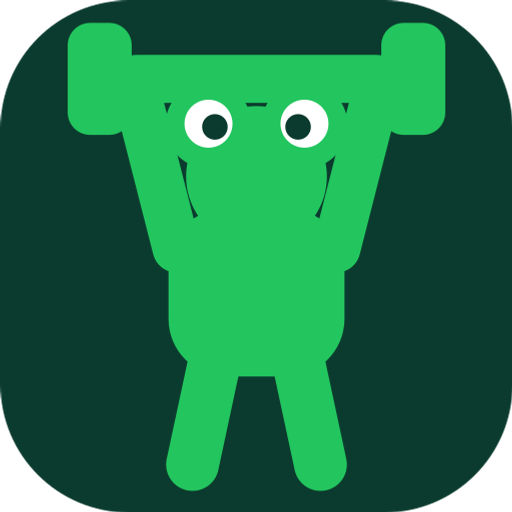
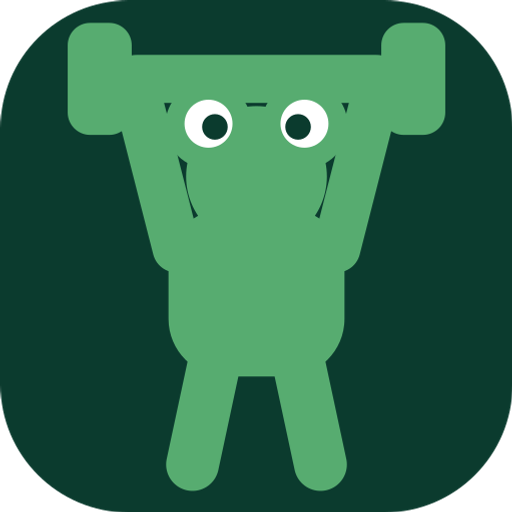
Repalette to "golden hour" — warm amber, green kept for the frog
The old spring-green + neutral-gray dark theme reads as a generic
Spotify-stats template. New palette:

- primary is a warm amber (deeper honey in light mode for text contrast,
  bright gold in dark)
- neutrals carry a faint warm tint instead of pure achromatic gray
- --brand stays a natural frog green, now used only by the logo / wordmark
- charts lead with the gold, green as the cool anchor, plus terracotta /
  slate / plum
- icon.svg, the maskable icon, apple-icon and the iOS splash regenerated;
  PWA theme/background and the email template follow the new colours

diff --git a/src/app/globals.css b/src/app/globals.css
@@ -50,77 +50,80 @@
   --radius-4xl: calc(var(--radius) * 2.6);
 }
 
+/* "Golden hour" — warm amber primary, a natural frog green reserved for the
+ * logo, and neutrals with a faint warm tint so the app doesn't read like a
+ * dark-mode analytics template. */
 :root {
-  --background: oklch(1 0 0);
-  --foreground: oklch(0.145 0 0);
-  --card: oklch(1 0 0);
-  --card-foreground: oklch(0.145 0 0);
-  --popover: oklch(1 0 0);
-  --popover-foreground: oklch(0.145 0 0);
-  --primary: oklch(0.59 0.146 156);
-  --primary-foreground: oklch(0.985 0.01 156);
-  --secondary: oklch(0.97 0 0);
-  --secondary-foreground: oklch(0.205 0 0);
-  --muted: oklch(0.97 0 0);
-  --muted-foreground: oklch(0.556 0 0);
-  --accent: oklch(0.95 0.03 156);
-  --accent-foreground: oklch(0.35 0.09 156);
+  --background: oklch(0.994 0.004 84);
+  --foreground: oklch(0.19 0.012 62);
+  --card: oklch(1 0.002 84);
+  --card-foreground: oklch(0.19 0.012 62);
+  --popover: oklch(1 0.002 84);
+  --popover-foreground: oklch(0.19 0.012 62);
+  --primary: oklch(0.6 0.135 68);
+  --primary-foreground: oklch(0.99 0.008 84);
+  --secondary: oklch(0.965 0.008 80);
+  --secondary-foreground: oklch(0.25 0.012 62);
+  --muted: oklch(0.965 0.008 80);
+  --muted-foreground: oklch(0.53 0.018 66);
+  --accent: oklch(0.95 0.035 80);
+  --accent-foreground: oklch(0.42 0.09 66);
   --destructive: oklch(0.577 0.245 27.325);
-  --border: oklch(0.922 0 0);
-  --input: oklch(0.922 0 0);
-  --ring: oklch(0.59 0.146 156);
-  --brand: oklch(0.64 0.15 156);
-  --brand-ink: oklch(0.28 0.06 160);
-  --chart-1: oklch(0.64 0.15 156);
-  --chart-2: oklch(0.68 0.12 212);
-  --chart-3: oklch(0.76 0.14 75);
-  --chart-4: oklch(0.6 0.17 300);
-  --chart-5: oklch(0.64 0.19 15);
+  --border: oklch(0.9 0.01 80);
+  --input: oklch(0.9 0.01 80);
+  --ring: oklch(0.6 0.135 68);
+  --brand: oklch(0.585 0.125 150);
+  --brand-ink: oklch(0.31 0.055 162);
+  --chart-1: oklch(0.68 0.15 74);
+  --chart-2: oklch(0.58 0.115 150);
+  --chart-3: oklch(0.6 0.15 40);
+  --chart-4: oklch(0.6 0.1 225);
+  --chart-5: oklch(0.52 0.13 350);
   --radius: 0.7rem;
-  --sidebar: oklch(0.985 0 0);
-  --sidebar-foreground: oklch(0.145 0 0);
-  --sidebar-primary: oklch(0.205 0 0);
-  --sidebar-primary-foreground: oklch(0.985 0 0);
-  --sidebar-accent: oklch(0.97 0 0);
-  --sidebar-accent-foreground: oklch(0.205 0 0);
-  --sidebar-border: oklch(0.922 0 0);
-  --sidebar-ring: oklch(0.708 0 0);
+  --sidebar: oklch(0.985 0.004 84);
+  --sidebar-foreground: oklch(0.19 0.012 62);
+  --sidebar-primary: oklch(0.6 0.135 68);
+  --sidebar-primary-foreground: oklch(0.99 0.008 84);
+  --sidebar-accent: oklch(0.965 0.008 80);
+  --sidebar-accent-foreground: oklch(0.25 0.012 62);
+  --sidebar-border: oklch(0.9 0.01 80);
+  --sidebar-ring: oklch(0.6 0.135 68);
 }
 
 .dark {
-  --background: oklch(0.145 0 0);
-  --foreground: oklch(0.985 0 0);
-  --card: oklch(0.205 0 0);
-  --card-foreground: oklch(0.985 0 0);
-  --popover: oklch(0.205 0 0);
-  --popover-foreground: oklch(0.985 0 0);
-  --primary: oklch(0.7 0.15 156);
-  --primary-foreground: oklch(0.18 0.03 160);
-  --secondary: oklch(0.269 0 0);
-  --secondary-foreground: oklch(0.985 0 0);
-  --muted: oklch(0.269 0 0);
-  --muted-foreground: oklch(0.708 0 0);
-  --accent: oklch(0.32 0.05 160);
-  --accent-foreground: oklch(0.92 0.03 156);
+  --background: oklch(0.17 0.012 70);
+  --foreground: oklch(0.955 0.008 84);
+  --card: oklch(0.222 0.015 68);
+  --card-foreground: oklch(0.955 0.008 84);
+  --popover: oklch(0.222 0.015 68);
+  --popover-foreground: oklch(0.955 0.008 84);
+  --primary: oklch(0.81 0.155 80);
+  --primary-foreground: oklch(0.25 0.05 66);
+  --secondary: oklch(0.285 0.014 68);
+  --secondary-foreground: oklch(0.955 0.008 84);
+  --muted: oklch(0.285 0.014 68);
+  --muted-foreground: oklch(0.72 0.016 80);
+  --accent: oklch(0.33 0.05 74);
+  --accent-foreground: oklch(0.9 0.05 84);
   --destructive: oklch(0.704 0.191 22.216);
-  --border: oklch(1 0 0 / 10%);
-  --input: oklch(1 0 0 / 15%);
-  --ring: oklch(0.7 0.15 156);
-  --brand: oklch(0.72 0.16 156);
-  --brand-ink: oklch(0.24 0.05 160);
-  --chart-1: oklch(0.72 0.16 156);
-  --chart-2: oklch(0.7 0.12 212);
-  --chart-3: oklch(0.78 0.14 75);
-  --chart-4: oklch(0.66 0.17 300);
-  --chart-5: oklch(0.68 0.19 15);
-  --sidebar: oklch(0.205 0 0);
-  --sidebar-foreground: oklch(0.985 0 0);
-  --sidebar-primary: oklch(0.488 0.243 264.376);
-  --sidebar-primary-foreground: oklch(0.985 0 0);
-  --sidebar-accent: oklch(0.269 0 0);
-  --sidebar-accent-foreground: oklch(0.985 0 0);
-  --sidebar-border: oklch(1 0 0 / 10%);
-  --sidebar-ring: oklch(0.556 0 0);
+  --border: oklch(0.9 0.03 84 / 11%);
+  --input: oklch(0.9 0.03 84 / 15%);
+  --ring: oklch(0.81 0.155 80);
+  --brand: oklch(0.68 0.13 150);
+  --brand-ink: oklch(0.31 0.055 162);
+  --chart-1: oklch(0.8 0.16 80);
+  --chart-2: oklch(0.67 0.125 150);
+  --chart-3: oklch(0.66 0.16 42);
+  --chart-4: oklch(0.68 0.11 225);
+  --chart-5: oklch(0.62 0.14 350);
+  --sidebar: oklch(0.222 0.015 68);
+  --sidebar-foreground: oklch(0.955 0.008 84);
+  --sidebar-primary: oklch(0.81 0.155 80);
+  --sidebar-primary-foreground: oklch(0.25 0.05 66);
+  --sidebar-accent: oklch(0.285 0.014 68);
+  --sidebar-accent-foreground: oklch(0.955 0.008 84);
+  --sidebar-border: oklch(0.9 0.03 84 / 11%);
+  --sidebar-ring: oklch(0.81 0.155 80);
 }
 
 @layer base {

diff --git a/src/lib/email.ts b/src/lib/email.ts
@@ -34,13 +34,13 @@ async function send({ to, subject, html, text }: Mail) {
 }
 
 function layout(heading: string, body: string, cta: { label: string; url: string }) {
-  return `<!doctype html><html><body style="font-family:system-ui,-apple-system,Segoe UI,Roboto,sans-serif;background:#0b3b2e;margin:0;padding:32px">
+  return `<!doctype html><html><body style="font-family:system-ui,-apple-system,Segoe UI,Roboto,sans-serif;background:#14110c;margin:0;padding:32px">
   <table role="presentation" width="100%" cellpadding="0" cellspacing="0"><tr><td align="center">
     <table role="presentation" width="440" cellpadding="0" cellspacing="0" style="background:#fff;border-radius:12px;padding:32px">
-      <tr><td style="font-size:20px;font-weight:700;color:#0b3b2e;padding-bottom:12px">ProgFrog</td></tr>
+      <tr><td style="font-size:20px;font-weight:700;color:#0b3b2e;padding-bottom:12px">Prog<span style="color:#3e8757">Frog</span></td></tr>
       <tr><td style="font-size:16px;font-weight:600;color:#111;padding-bottom:8px">${heading}</td></tr>
       <tr><td style="font-size:14px;color:#444;line-height:1.5;padding-bottom:20px">${body}</td></tr>
-      <tr><td><a href="${cta.url}" style="display:inline-block;background:#16a34a;color:#fff;text-decoration:none;font-weight:600;font-size:14px;padding:10px 18px;border-radius:8px">${cta.label}</a></td></tr>
+      <tr><td><a href="${cta.url}" style="display:inline-block;background:#3e8757;color:#fff;text-decoration:none;font-weight:600;font-size:14px;padding:10px 18px;border-radius:8px">${cta.label}</a></td></tr>
       <tr><td style="font-size:12px;color:#888;padding-top:20px;word-break:break-all">Or paste this link into your browser:<br>${cta.url}</td></tr>
     </table>
   </td></tr></table>

diff --git a/src/components/logo.tsx b/src/components/logo.tsx
@@ -5,7 +5,7 @@ import { cn } from "@/lib/utils";
  * the brand green (`--brand`); eyes white, pupils `--brand-ink`. Scales from 16px.
  */
 export function FrogMark({ className }: { className?: string }) {
-  const brand = "var(--brand, #16a34a)";
+  const brand = "var(--brand, #3e8757)";
   const ink = "var(--brand-ink, #0b3b2e)";
   return (
     <svg
@@ -85,7 +85,7 @@ export function Logo({
       <FrogMark className={cn("size-6", markClassName)} />
       {showText ? (
         <span className="font-heading text-[0.95rem] leading-none font-semibold tracking-tight">
-          Prog<span style={{ color: "var(--brand, #16a34a)" }}>Frog</span>
+          Prog<span style={{ color: "var(--brand, #3e8757)" }}>Frog</span>
         </span>
       ) : null}
     </span>

diff --git a/src/app/manifest.ts b/src/app/manifest.ts
@@ -13,8 +13,8 @@ export default function manifest(): MetadataRoute.Manifest {
     // installed PWA (Android honors this) fails WCAG 1.3.4 for anyone who
     // mounts their phone in landscape or reads in landscape by preference.
     orientation: "any",
-    background_color: "#0b3b2e",
-    theme_color: "#0b3b2e",
+    background_color: "#14110c",
+    theme_color: "#14110c",
     categories: ["health", "fitness", "lifestyle"],
     icons: [
       { src: "/icon-192.png", sizes: "192x192", type: "image/png" },

diff --git a/src/app/layout.tsx b/src/app/layout.tsx
@@ -53,7 +53,10 @@ export const metadata: Metadata = {
 };
 
 export const viewport: Viewport = {
-  themeColor: "#0b3b2e",
+  themeColor: [
+    { media: "(prefers-color-scheme: light)", color: "#fdfbf5" },
+    { media: "(prefers-color-scheme: dark)", color: "#14110c" },
+  ],
   // Let the app draw into the notch / home-indicator area once installed.
   viewportFit: "cover",
   // Shrink the layout viewport when the on-screen keyboard opens, so
